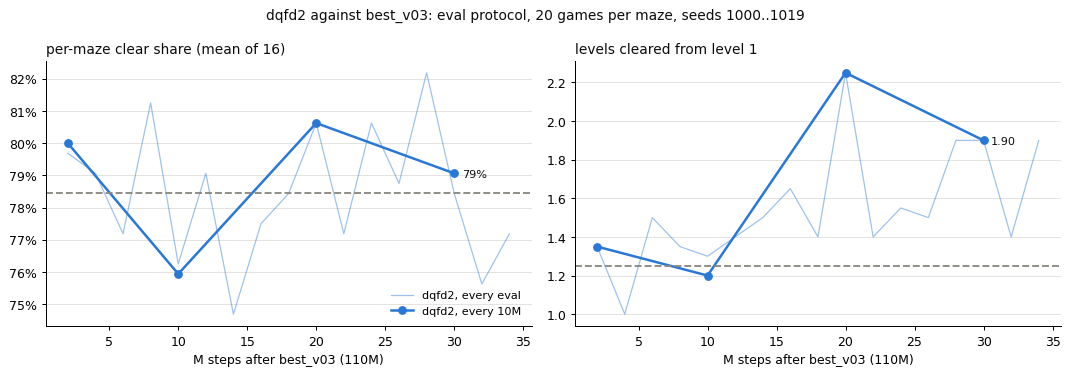
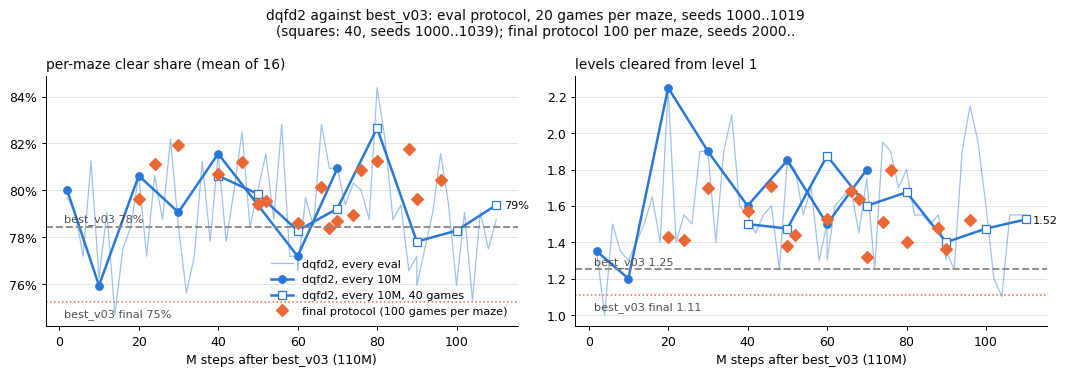
plot_curve: 40-game supervisor evals and final-protocol points; dqfd2 curve to 220M

diff --git a/scripts/plot_curve.py b/scripts/plot_curve.py
@@ -9,7 +9,11 @@ Per-maze clear share (mean over the 16 mazes) and levels cleared from level
 steps; light) and of its supervisor evals (sv_evals.jsonl, every 10M;
 markers), all on the eval protocol (20 games per maze, seeds 1000..1019).
 The reference (a train_eval.py --out row of the start checkpoint on the same
-protocol) is a dashed line.
+protocol) is a dashed line. Supervisor rows with "episodes" 40 (seeds
+1000..1039) are drawn apart from the 20-game ones (sv_evals_20games.jsonl
+is read too). --final adds the final protocol (train_eval.py --out rows
+labelled <run>@<N>M, 100 games per maze, seeds 2000..) as orange points,
+--final-ref its row of the start checkpoint (dotted).
 """
 
 import argparse
@@ -23,6 +27,7 @@ import matplotlib.pyplot as plt  # noqa: E402
 
 ROOT = os.path.dirname(os.path.dirname(os.path.abspath(__file__)))
 BLUE, GRAY, INK, MUTED = "#2a78d6", "#8a8984", "#0b0b0b", "#52514e"
+ORANGE = "#eb6834"
 
 
 def rows(path):
@@ -38,10 +43,24 @@ def main():
     p.add_argument("--ref-json", required=True)
     p.add_argument("--ref-label", default="start")
     p.add_argument("--out", required=True)
+    p.add_argument("--final", nargs="*", default=[], help="summary.jsonl files of the final protocol")
+    p.add_argument("--final-ref", default=None, help="label of the start's final-protocol row")
     args = p.parse_args()
     d = os.path.join(ROOT, "runs", args.run)
     ev = [r for r in rows(os.path.join(d, "evals.jsonl")) if "phase" not in r]
-    sv = rows(os.path.join(d, "sv_evals.jsonl"))
+    sv_all = sorted(rows(os.path.join(d, "sv_evals.jsonl")) +
+                    rows(os.path.join(d, "sv_evals_20games.jsonl")), key=lambda r: r["steps"])
+    sv = [r for r in sv_all if r.get("episodes", 20) == 20]
+    sv40 = [r for r in sv_all if r.get("episodes") == 40]
+    fin, fin_ref = {}, None
+    for path in args.final:
+        for r in rows(path):
+            lab = r.get("label", "")
+            if lab.startswith(args.run + "@") and lab.endswith("M"):
+                fin[int(lab[len(args.run) + 1:-1]) * 1_000_000] = r
+            elif lab == args.final_ref:
+                fin_ref = r
+    fin = sorted(fin.items())
     ref = rows(args.ref_json)[-1]
     s0 = ref.get("steps")
     fig, axes = plt.subplots(1, 2, figsize=(12, 4.2))
@@ -55,9 +74,22 @@ def main():
         xs = [(r["steps"] - s0) / 1e6 for r in sv if r["steps"] > s0]
         ys = [r[key] for r in sv if r["steps"] > s0]
         ax.plot(xs, ys, color=BLUE, lw=2, marker="o", ms=6, label=f"{args.run}, every 10M")
+        if sv40:
+            ax.plot([(r["steps"] - s0) / 1e6 for r in sv40], [r[key] for r in sv40],
+                    color=BLUE, lw=2, marker="s", ms=6, mfc="white",
+                    label=f"{args.run}, every 10M, 40 games")
+        if fin:
+            ax.plot([(st - s0) / 1e6 for st, _ in fin], [r[key] for _, r in fin], color=ORANGE,
+                    lw=0, marker="D", ms=7, label="final protocol (100 games per maze)")
+        if fin_ref:
+            ax.axhline(fin_ref[key], color=ORANGE, lw=1.2, ls=":")
+            ax.annotate(f"{args.ref_label} final {fmt.format(fin_ref[key])}", (0, fin_ref[key]),
+                        xytext=(4, -12), textcoords="offset points", color=MUTED, fontsize=9)
         ax.axhline(ref[key], color=GRAY, lw=1.5, ls="--")
         ax.annotate(f"{args.ref_label} {fmt.format(ref[key])}", (0, ref[key]),
                     xytext=(4, 4), textcoords="offset points", color=MUTED, fontsize=9)
+        if sv40:
+            xs, ys = [(r["steps"] - s0) / 1e6 for r in sv40], [r[key] for r in sv40]
         if xs:
             ax.annotate(fmt.format(ys[-1]), (xs[-1], ys[-1]), xytext=(6, -3),
                         textcoords="offset points", color=INK, fontsize=9)
@@ -69,7 +101,9 @@ def main():
             ax.yaxis.set_major_formatter(matplotlib.ticker.PercentFormatter(1.0, decimals=0))
     axes[0].legend(frameon=False, fontsize=9, loc="lower right")
     fig.suptitle(f"{args.run} against {args.ref_label}: eval protocol, 20 games per maze, "
-                 "seeds 1000..1019", fontsize=11, color=INK)
+                 "seeds 1000..1019" + ("\n(squares: 40, seeds 1000..1039)" if sv40 else "")
+                 + ("; final protocol 100 per maze, seeds 2000.." if fin else ""),
+                 fontsize=11, color=INK)
     fig.tight_layout()
     fig.savefig(args.out, dpi=90, bbox_inches="tight")
     print(f"wrote {args.out}")
